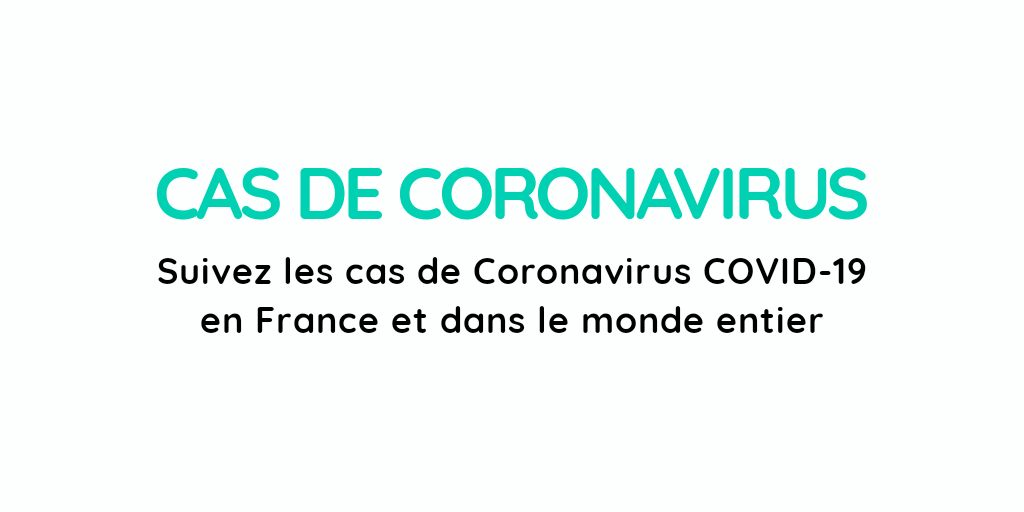
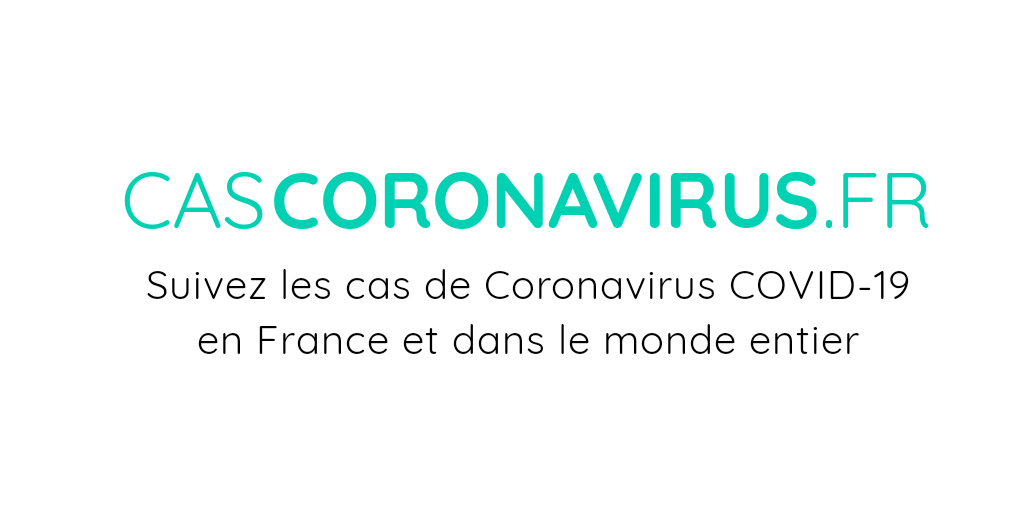
change og and add stats

Changed region(s): [[0.125, 0.5, 0.9062, 0.6875], [0.0938, 0.3125, 0.9062, 0.4688]]

diff --git a/src/app/layout/header/header.component.html b/src/app/layout/header/header.component.html
@@ -1,6 +1,6 @@
 <nav class="navbar" role="navigation" aria-label="main navigation">
   <div class="navbar-brand">
-    <a href="./" title="Cas de coronavirus, Covid-19"><h1 class="nav-item title">Cas de Coronavirus, Covid-19</h1></a>
+    <a href="./" title="Cas de coronavirus, COVID-19"><h1 class="nav-item title">Cas de Coronavirus, COVID-19</h1></a>
     <a role="button" class="navbar-burger burger" (click)="expand()" aria-label="menu" aria-expanded="false"
       data-target="menu">
       <span aria-hidden="true"></span>

diff --git a/src/app/coronavirus/components/coronavirus-stats/coronavirus-stats.component.html b/src/app/coronavirus/components/coronavirus-stats/coronavirus-stats.component.html
@@ -1,5 +1,5 @@
 <ng-container *ngIf="mainStats">
-  <h2 class="title is-spaced" id="tableDescription" >Cas de Coronavirus COVID-19 {{selectedCountry.Country}}</h2>
+  <h2 class="title is-spaced" id="tableDescription" >Statistiques et cas Coronavirus COVID-19 {{selectedCountry.Country}}</h2>
   <div class="content">
       <p *ngIf="mainStats.lastUpdate">
         Mis à jour le <strong>{{mainStats.lastUpdate | date: 'dd/MM/yyyy à HH:MM'}}</strong>
